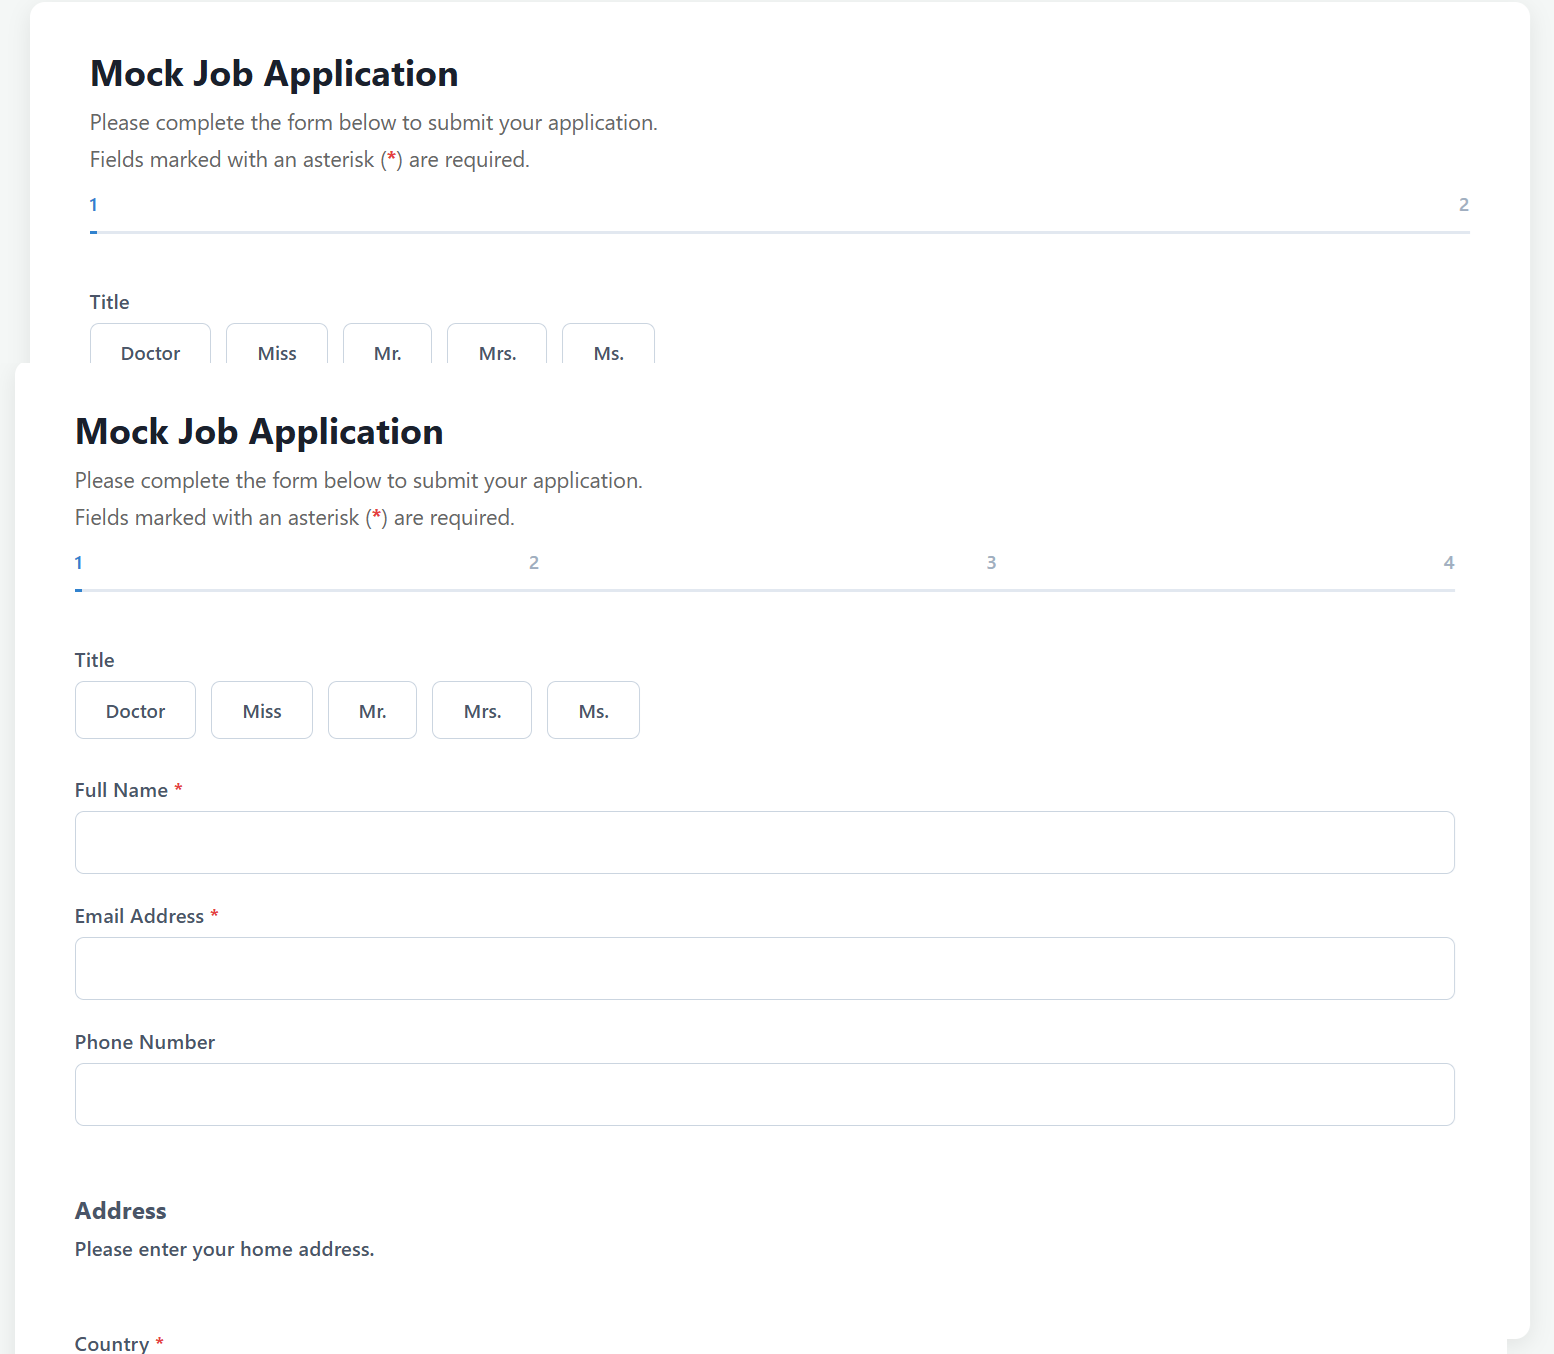
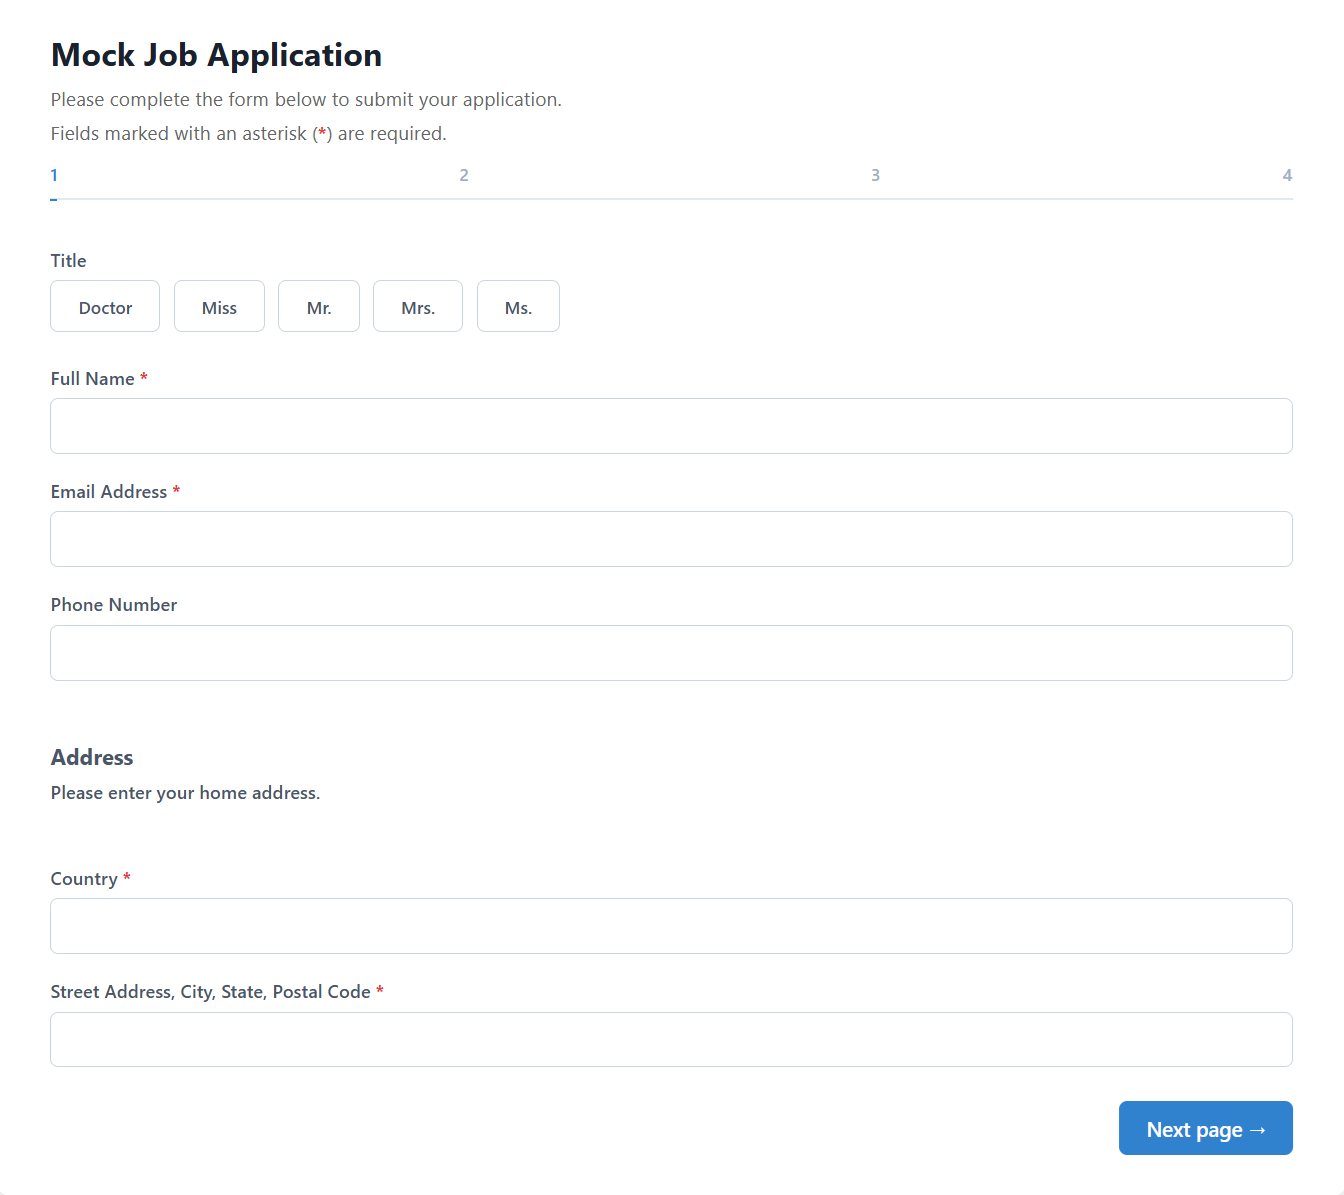
Initial commit

diff --git a/README.md b/README.md
@@ -1,6 +1,10 @@
 Screenshots of the webpages and the final results sent to the email<br>
-![](images/img1.png)
-![](images/img2.png)
-![](images/img3.png)
-![](images/img4.png)
-![](images/img5.png)
+![Page 1](images/img1.png)
+
+![Page 2](images/img2.png)
+
+![Page 3}](images/img3.png)
+
+![Page 4](images/img4.png)
+
+![Email result](images/img5.png)
